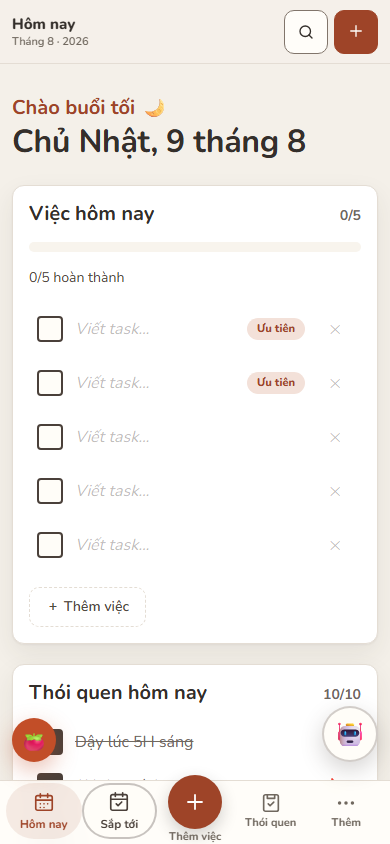
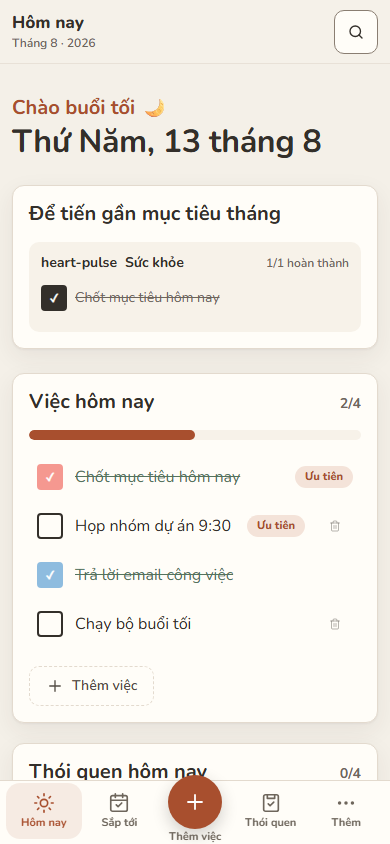
chore(release): refresh cache-bust, PWA screenshots, and Lighthouse docs for V1
- Bump sync.min.js?v=4 -> v5 and SW CACHE taskflow-v210 -> v211 so the
  blank-cleanup convergence code ships on first post-deploy load without
  serving stale cache (regression tests cover the v4->v5 upgrade path)
- Regenerate app-screenshot.png (1200x900) and app-screenshot-mobile.png
  (390x844) from current demo state; manifest dimensions verified
- Split Lighthouse docs into Track A (Lantern simulated, historical) and
  Track B (devtools/Playwright real-throttle: app mobile LCP ~1.9-2.2s),
  keeping all historical numbers verbatim

🤖 Generated with Codebuff

diff --git a/app.html b/app.html
@@ -764,7 +764,7 @@
   <script src="js/plan-math.min.js?v=7"></script>
   <script src="js/plan-stats.min.js?v=3"></script>
   <script src="js/plan-carry.min.js?v=1"></script>
-  <script src="js/sync.min.js?v=4"></script>
+  <script src="js/sync.min.js?v=5"></script>
   <script src="js/ui.min.js?v=6"></script>
   <script src="js/util.min.js?v=1"></script>
   <script src="js/i18n.min.js?v=13"></script>

diff --git a/sw.js b/sw.js
@@ -3,7 +3,7 @@
    Chiến lược: network-first cho điều hướng, stale-while-revalidate cho tĩnh. */
 'use strict';
 
-const CACHE = 'taskflow-v210';
+const CACHE = 'taskflow-v211';
 const APP_SHELL = [
   './',
   './index.html',

diff --git a/docs/lighthouse/COMPARISON.md b/docs/lighthouse/COMPARISON.md
@@ -7,6 +7,50 @@ same machine (Chrome headless, `lighthouse@13.4.1`).
 - **BEFORE** — original baseline, commit `36bb1b6` (2026-08-09 16:28), pre-optimization.
 - **AFTER** — fresh run 2026-08-11 13:44, current `main` head (`1f43cd6` + working tree).
 
+---
+
+## Two measurement tracks (read this first)
+
+TaskFlow performance is tracked on **two separate tracks** because Lighthouse's
+Lantern simulator and real throttling answer different questions. Never mix the
+numbers across tracks.
+
+### TRACK A — Standard / historical (Lantern, `throttlingMethod=simulate`)
+
+- Source: `scripts/measure-lighthouse.py` default run (Lantern simulated network/CPU).
+- Purpose: **historical comparability** across every phase — the same harness,
+  same machine, same methodology, so phase-over-phase deltas are meaningful.
+- All tables and deltas in this file (and `BASELINE.md`) are Track A.
+- **Caveat:** Lantern does **not** represent the perceived LCP of the static Today
+  shell. Lantern attaches a JS-heavy page's LCP to its dependency graph / load
+  event (~6 s — 43 synchronous scripts), so app-mobile LCP stays ~5.5–6.3 s in
+  every Track A run even after the static-shell work. It is a model artifact,
+  not a rendering measurement. See TRACK B for actual render timing.
+
+### TRACK B — Real-throttle (`throttlingMethod=devtools` + Playwright harness)
+
+- Source: `docs/lighthouse/app-mobile-devtools.json` (commit `aced63d`, 2026-08-11)
+  and the Playwright devtools-throttle harness used in development-history P0.4.
+- Purpose: **actual render timing** for the current Today static shell on real
+  throttled Chromium.
+- Known results (median of 3 runs, same code as Track A AFTER):
+
+  | Method | App mobile LCP | Notes |
+  |---|---|---|
+  | Playwright devtools-throttle | **1944 / 1964 / 1948 ms** (~1.9 s) | before static shell ~5.4–6.6 s → **−64%** |
+  | Lighthouse `--throttling-method=devtools` | **2202 ms** · CLS **0.0** · perf **79** | FCP 1.9 s · TBT 480 ms · SI 7.4 s |
+  | Lighthouse `--throttling-method=provided` | **308 ms** (no throttle) | LCP element paints at parse, pre-boot |
+
+**Why the tracks differ and why this is correct:** the static Today header is
+rendered by an inline script before first paint, so a real browser paints LCP
+~1.9–2.2 s under devtools throttling while Lantern still models the load-event
+cost of the 43-script boot chain. The static shell is a **legitimate real UX
+improvement** even though Track A app-mobile LCP barely moves. Optimizing the
+load-event dependency graph purely to move the Lantern number (e.g. deferring
+more boot scripts) was deliberately NOT done — it would trade boot robustness
+for a simulator score. FCP / TBT / CLS remain the regression guards on both
+load paths; CLS 0.0 under devtools throttling is the key real-world check.
+
 | Page | Device | Performance | Accessibility | Best Practices | SEO | FCP (ms) | LCP (ms) | CLS | TBT (ms) | Speed Index (ms) |
 |---|---|---|---|---|---|---|---|---|---|---|
 | Landing | Desktop | 99 → **99** | 96 → 96 | 100 → 100 | 100 → 100 | 648 → **564** | 648 → **564** | .068 → .067 | 0 → 0 | 648 → **564** |
@@ -92,6 +136,9 @@ same machine (Chrome headless, `lighthouse@13.4.1`).
 
 ---
 
-*Raw reports: `docs/lighthouse/{landing,app}-{desktop,mobile}.json` · current state:
-`baseline.json` / `BASELINE.md` (overwritten by `scripts/measure-lighthouse.py`).
-This comparison file is preserved across runs by design.*
+*Raw reports: `docs/lighthouse/{landing,app}-{desktop,mobile}.json` (Track A) ·
+`docs/lighthouse/app-mobile-devtools.json` (Track B, commit `aced63d`, 2026-08-11) ·
+current Track A state: `baseline.json` / `BASELINE.md` (overwritten by
+`scripts/measure-lighthouse.py`). This comparison file is preserved across runs
+by design; the two-track narrative above supersedes any single-number reading of
+app-mobile LCP in the tables below.*
